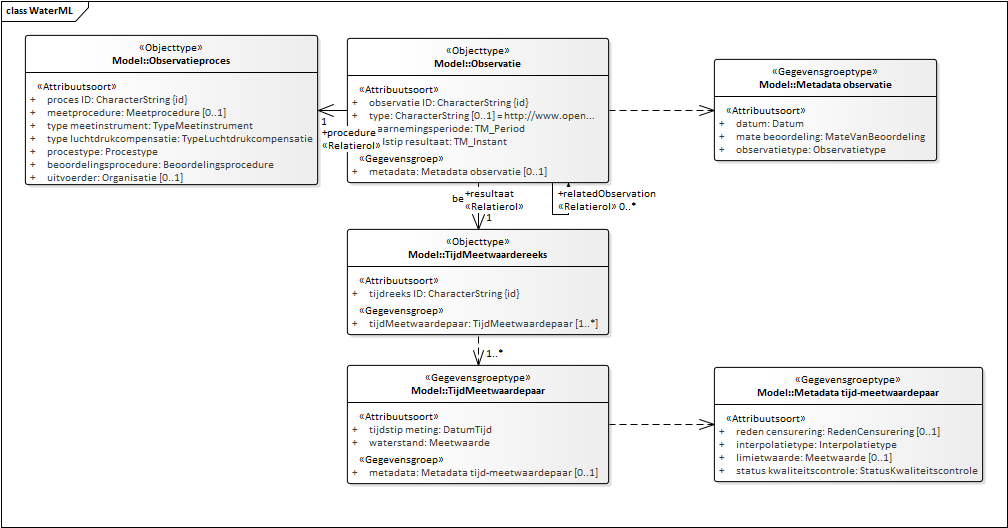
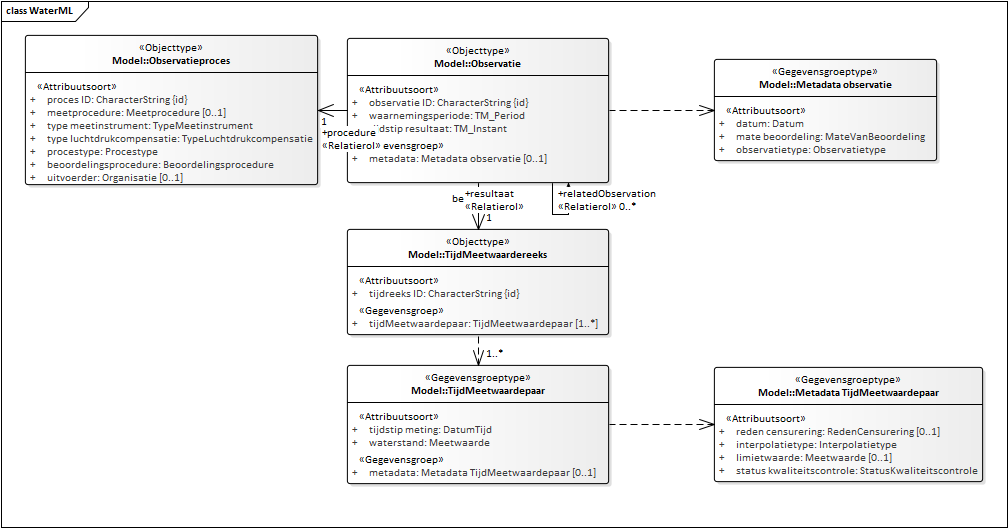
Conceptualmodel-GrondwaterstandonderzoekGLD-0.9-3-20191003-20191014-153124

Changed region(s): [[0.3383, 0.2121, 0.5843, 0.3333], [0.4613, 0.8788, 0.6151, 0.9091], [0.7381, 0.7273, 0.8611, 0.7576]]

diff --git a/data/GLD-cat.msword.html b/data/GLD-cat.msword.html
@@ -13,7 +13,7 @@
    <body>
       <p>Conceptual model/Grondwaterstandonderzoek (GLD)/20191003</p>
       <p>Imvertor: 1.55.2</p>
-      <p>Model release: Conceptualmodel-GrondwaterstandonderzoekGLD-0.9-3-20191003-20191011-171057</p>
+      <p>Model release: Conceptualmodel-GrondwaterstandonderzoekGLD-0.9-3-20191003-20191014-153124</p>
       <hr>
       <section>
          <h1>Artikel 1 Definitie van registratieobject, entiteiten en attributen</h1>
@@ -64,8 +64,8 @@
                            <th>Definitie</th>
                            <td>
                               
-                              <p xmlns="http://www.w3.org/1999/xhtml" xmlns:html="http://www.w3.org/1999/xhtml" xmlns:imvert="http://www.imvertor.org/schema/system">De gegevens die nodig zijn voor de unieke identificatie van een specifieke buis in
-                                 een grondwatermonitoringput. 
+                              <p xmlns="http://www.w3.org/1999/xhtml" xmlns:html="http://www.w3.org/1999/xhtml" xmlns:imvert="http://www.imvertor.org/schema/system">De gegevens die nodig zijn voor de unieke identificatie van een specifieke monitoringbuis
+                                 in een grondwatermonitoringput. 
                               </p>
                               
                            </td>
@@ -74,7 +74,7 @@
                            <th>Toelichting</th>
                            <td>
                               
-                              <p xmlns="http://www.w3.org/1999/xhtml" xmlns:html="http://www.w3.org/1999/xhtml" xmlns:imvert="http://www.imvertor.org/schema/system">Het <em>BRO-ID</em> van de <em>grondwatermonitoringput</em> wordt opgenomen plus het volgnummer van de specifieke buis in de put.
+                              <p xmlns="http://www.w3.org/1999/xhtml" xmlns:html="http://www.w3.org/1999/xhtml" xmlns:imvert="http://www.imvertor.org/schema/system">Het <em>BRO-ID</em> van de <em>grondwatermonitoringput</em> wordt opgenomen plus het volgnummer van de specifieke monitoringbuis in de put.
                               </p>
                               
                            </td>
@@ -214,8 +214,8 @@
                               <br></td>
                         </tr>
                      </tbody>
-                  </table><a class="anchor" name="detail_attribute_Model_Grondwaterstandonderzoek_startdatumOnderzoek"></a><section id="detail_attribute_Model_Grondwaterstandonderzoek_startdatumOnderzoek" level="5">
-                     <h4>  startdatum onderzoek</h4>
+                  </table><a class="anchor" name="detail_attribute_Model_Grondwaterstandonderzoek_datumEersteMeting"></a><section id="detail_attribute_Model_Grondwaterstandonderzoek_datumEersteMeting" level="5">
+                     <h4>  datum eerste meting</h4>
                      
                      <table width="100%">
                         <colgroup width="30%"></colgroup>
@@ -230,55 +230,6 @@
                               <td>
                                  
                                  <p xmlns="http://www.w3.org/1999/xhtml" xmlns:html="http://www.w3.org/1999/xhtml" xmlns:imvert="http://www.imvertor.org/schema/system">De datum waarop de eerste meting van het <em>grondwaterstandonderzoek</em> is uitgevoerd.
-                                 </p>
-                                 
-                              </td>
-                           </tr>
-                           <tr>
-                              <th>Juridische status</th>
-                              <td>Authentiek</td>
-                           </tr>
-                           <tr>
-                              <th>Kardinaliteit</th>
-                              <td>1</td>
-                           </tr>
-                           <tr>
-                              <th>Domein</th>
-                              <td></td>
-                           </tr>
-                           <tr>
-                              <th>&nbsp;&nbsp;Naam</th>
-                              <td>Datum</td>
-                           </tr>
-                           <tr>
-                              <th>Toelichting</th>
-                              <td>
-                                 
-                                 <p xmlns="http://www.w3.org/1999/xhtml" xmlns:html="http://www.w3.org/1999/xhtml" xmlns:imvert="http://www.imvertor.org/schema/system">Het gegeven staan niet in een brondocument, maar worden automatisch door de basisregistratie
-                                    ondergrond afgeleid van het tijdstip van de eerste meting.
-                                 </p>
-                                 
-                              </td>
-                           </tr>
-                        </tbody>
-                     </table>
-                     
-                  </section><a class="anchor" name="detail_attribute_Model_Grondwaterstandonderzoek_einddatumOnderzoek"></a><section id="detail_attribute_Model_Grondwaterstandonderzoek_einddatumOnderzoek" level="5">
-                     <h4>  einddatum onderzoek</h4>
-                     
-                     <table width="100%">
-                        <colgroup width="30%"></colgroup>
-                        <colgroup width="70%"></colgroup>
-                        <tbody>
-                           <tr>
-                              <th>Type gegeven</th>
-                              <td>Attribuut van Grondwaterstandonderzoek</td>
-                           </tr>
-                           <tr>
-                              <th>Definitie</th>
-                              <td>
-                                 
-                                 <p xmlns="http://www.w3.org/1999/xhtml" xmlns:html="http://www.w3.org/1999/xhtml" xmlns:imvert="http://www.imvertor.org/schema/system">De datum waarop de laatste meting van het <em>grondwaterstandonderzoek</em> is uitgevoerd.
                                  </p>
                                  
                               </td>
@@ -304,8 +255,56 @@
                               <td>
                                  
                                  <p xmlns="http://www.w3.org/1999/xhtml" xmlns:html="http://www.w3.org/1999/xhtml" xmlns:imvert="http://www.imvertor.org/schema/system">Het gegeven staan niet in een brondocument, maar worden automatisch door de basisregistratie
-                                    ondergrond afgeleid van het tijdstip van de laatste meting op het moment dat de registratie
-                                    voltooid wordt.
+                                    ondergrond afgeleid van het tijdstip van de eerste meting.
+                                 </p>
+                                 
+                              </td>
+                           </tr>
+                        </tbody>
+                     </table>
+                     
+                  </section><a class="anchor" name="detail_attribute_Model_Grondwaterstandonderzoek_datumLaatsteMeting"></a><section id="detail_attribute_Model_Grondwaterstandonderzoek_datumLaatsteMeting" level="5">
+                     <h4>  datum laatste meting</h4>
+                     
+                     <table width="100%">
+                        <colgroup width="30%"></colgroup>
+                        <colgroup width="70%"></colgroup>
+                        <tbody>
+                           <tr>
+                              <th>Type gegeven</th>
+                              <td>Attribuut van Grondwaterstandonderzoek</td>
+                           </tr>
+                           <tr>
+                              <th>Definitie</th>
+                              <td>
+                                 
+                                 <p xmlns="http://www.w3.org/1999/xhtml" xmlns:html="http://www.w3.org/1999/xhtml" xmlns:imvert="http://www.imvertor.org/schema/system">De datum van de laatste meting die beschikbaar is van het <em>grondwaterstandonderzoek</em>.
+                                 </p>
+                                 
+                              </td>
+                           </tr>
+                           <tr>
+                              <th>Juridische status</th>
+                              <td>Authentiek</td>
+                           </tr>
+                           <tr>
+                              <th>Kardinaliteit</th>
+                              <td>0.. 1</td>
+                           </tr>
+                           <tr>
+                              <th>Domein</th>
+                              <td></td>
+                           </tr>
+                           <tr>
+                              <th>&nbsp;&nbsp;Naam</th>
+                              <td>Datum</td>
+                           </tr>
+                           <tr>
+                              <th>Toelichting</th>
+                              <td>
+                                 
+                                 <p xmlns="http://www.w3.org/1999/xhtml" xmlns:html="http://www.w3.org/1999/xhtml" xmlns:imvert="http://www.imvertor.org/schema/system">Het gegeven staan niet in een brondocument, maar worden automatisch door de basisregistratie
+                                    ondergrond afgeleid van het tijdstip van de laatste meting.
                                  </p>
                                  
                               </td>
@@ -802,7 +801,9 @@
                            <th>Definitie</th>
                            <td>
                               
-                              <p xmlns="http://www.w3.org/1999/xhtml" xmlns:html="http://www.w3.org/1999/xhtml" xmlns:imvert="http://www.imvertor.org/schema/system">De reeks van waterstanden, gemeten in een monitoringbuis van een grondwatermonitoringput.</p>
+                              <p xmlns="http://www.w3.org/1999/xhtml" xmlns:html="http://www.w3.org/1999/xhtml" xmlns:imvert="http://www.imvertor.org/schema/system">De kenmerken van de reeks van waterstanden, gemeten in een monitoringbuis van een
+                                 grondwatermonitoringput.
+                              </p>
                               
                            </td>
                         </tr>
@@ -882,7 +883,7 @@
                            <th>Definitie</th>
                            <td>
                               
-                              <p xmlns="http://www.w3.org/1999/xhtml" xmlns:html="http://www.w3.org/1999/xhtml" xmlns:imvert="http://www.imvertor.org/schema/system">TODO</p>
+                              <p xmlns="http://www.w3.org/1999/xhtml" xmlns:html="http://www.w3.org/1999/xhtml" xmlns:imvert="http://www.imvertor.org/schema/system">De kenmerken van de observatie aan de waterstand in een monitoringbuis van een grondwatermonitoringput.</p>
                               
                            </td>
                         </tr>
@@ -956,59 +957,6 @@
                         </tbody>
                      </table>
                      
-                  </section><a class="anchor" name="detail_attribute_Model_Observatie_type"></a><section id="detail_attribute_Model_Observatie_type" level="5">
-                     <h4>  type</h4>
-                     
-                     <table width="100%">
-                        <colgroup width="30%"></colgroup>
-                        <colgroup width="70%"></colgroup>
-                        <tbody>
-                           <tr>
-                              <th>Type gegeven</th>
-                              <td>Attribuut van Observatie</td>
-                           </tr>
-                           <tr>
-                              <th>Definitie</th>
-                              <td>
-                                 
-                                 <p xmlns="http://www.w3.org/1999/xhtml" xmlns:html="http://www.w3.org/1999/xhtml" xmlns:imvert="http://www.imvertor.org/schema/system">TODO</p>
-                                 
-                              </td>
-                           </tr>
-                           <tr>
-                              <th>Juridische status</th>
-                              <td>Authentiek</td>
-                           </tr>
-                           <tr>
-                              <th>Kardinaliteit</th>
-                              <td>0.. 1</td>
-                           </tr>
-                           <tr>
-                              <th>Domein</th>
-                              <td></td>
-                           </tr>
-                           <tr>
-                              <th>&nbsp;&nbsp;Naam</th>
-                              <td>CHARACTERSTRING</td>
-                           </tr>
-                           <tr>
-                              <th>&nbsp;&nbsp;Type</th>
-                              <td>Waardelijst uitbreidbaar</td>
-                           </tr>
-                           <tr>
-                              <th>Toelichting</th>
-                              <td>
-                                 
-                                 <p xmlns="http://www.w3.org/1999/xhtml" xmlns:html="http://www.w3.org/1999/xhtml" xmlns:imvert="http://www.imvertor.org/schema/system">Eigenlijk is het type gml:Reference, maar dat zit niet in het BRO-GML-profiel. Oplossing
-                                    ontstaat vanzelf als we een BRO-profiel opstellen voor WaterML, want dan is dit attribuut
-                                    niet meer expliciet gemodelleerd.
-                                 </p>
-                                 
-                              </td>
-                           </tr>
-                        </tbody>
-                     </table>
-                     
                   </section><a class="anchor" name="detail_attribute_Model_Observatie_waarnemingsperiode"></a><section id="detail_attribute_Model_Observatie_waarnemingsperiode" level="5">
                      <h4>  waarnemingsperiode</h4>
                      
@@ -1024,8 +972,8 @@
                               <th>Definitie</th>
                               <td>
                                  
-                                 <p xmlns="http://www.w3.org/1999/xhtml" xmlns:html="http://www.w3.org/1999/xhtml" xmlns:imvert="http://www.imvertor.org/schema/system">De periode tussen de eerste en de laatste meting. Deze wordt gevormd door de datum
-                                    van de eerste meting en de datum van de laatste meting van de reeks.
+                                 <p xmlns="http://www.w3.org/1999/xhtml" xmlns:html="http://www.w3.org/1999/xhtml" xmlns:imvert="http://www.imvertor.org/schema/system">De periode tussen de eerste en de laatste meting. Deze periode wordt gevormd door
+                                    de datum van de eerste meting en de datum van de laatste meting van de reeks.
                                  </p>
                                  
                               </td>
@@ -1120,7 +1068,7 @@
                      
                   </section>
                </section><a class="anchor" name="graph_EAID_734CD3EC_5E0A_4b12_89F5_AF8104ECF41F"></a><a class="anchor" name="global_class_Model_MetadataTijdMeetwaardepaar"></a><section id="global_class_Model_MetadataTijdMeetwaardepaar" level="4">
-                  <h3>   Metadata tijd-meetwaardepaar</h3>
+                  <h3>   Metadata TijdMeetwaardepaar</h3>
                   <table width="100%">
                      <colgroup width="30%"></colgroup>
                      <colgroup width="70%"></colgroup>
@@ -1133,7 +1081,7 @@
                            <th>Definitie</th>
                            <td>
                               
-                              <p xmlns="http://www.w3.org/1999/xhtml" xmlns:html="http://www.w3.org/1999/xhtml" xmlns:imvert="http://www.imvertor.org/schema/system">TODO</p>
+                              <p xmlns="http://www.w3.org/1999/xhtml" xmlns:html="http://www.w3.org/1999/xhtml" xmlns:imvert="http://www.imvertor.org/schema/system">De metadata die behoort bij het tijd-meetwaardepaar</p>
                               
                            </td>
                         </tr>
@@ -1142,7 +1090,7 @@
                            <td>
                               <a class="link" href="#global_class_Model_TijdMeetwaardepaar">TijdMeetwaardepaar</a>
                               
-                              metadata 0.. 1 Metadata tijd-meetwaardepaar<br></td>
+                              metadata 0.. 1 Metadata TijdMeetwaardepaar<br></td>
                         </tr>
                      </tbody>
                   </table><a class="anchor" name="detail_attribute_Model_MetadataTijdMeetwaardepaar_redenCensurering"></a><section id="detail_attribute_Model_MetadataTijdMeetwaardepaar_redenCensurering" level="5">
@@ -1154,7 +1102,7 @@
                         <tbody>
                            <tr>
                               <th>Type gegeven</th>
-                              <td>Attribuut van Metadata tijd-meetwaardepaar</td>
+                              <td>Attribuut van Metadata TijdMeetwaardepaar</td>
                            </tr>
                            <tr>
                               <th>Definitie</th>
@@ -1198,7 +1146,7 @@
                         <tbody>
                            <tr>
                               <th>Type gegeven</th>
-                              <td>Attribuut van Metadata tijd-meetwaardepaar</td>
+                              <td>Attribuut van Metadata TijdMeetwaardepaar</td>
                            </tr>
                            <tr>
                               <th>Definitie</th>
@@ -1240,7 +1188,7 @@
                         <tbody>
                            <tr>
                               <th>Type gegeven</th>
-                              <td>Attribuut van Metadata tijd-meetwaardepaar</td>
+                              <td>Attribuut van Metadata TijdMeetwaardepaar</td>
                            </tr>
                            <tr>
                               <th>Definitie</th>
@@ -1286,7 +1234,7 @@
                         <tbody>
                            <tr>
                               <th>Type gegeven</th>
-                              <td>Attribuut van Metadata tijd-meetwaardepaar</td>
+                              <td>Attribuut van Metadata TijdMeetwaardepaar</td>
                            </tr>
                            <tr>
                               <th>Definitie</th>
@@ -1334,7 +1282,9 @@
                            <th>Definitie</th>
                            <td>
                               
-                              <p xmlns="http://www.w3.org/1999/xhtml" xmlns:html="http://www.w3.org/1999/xhtml" xmlns:imvert="http://www.imvertor.org/schema/system">TODO</p>
+                              <p xmlns="http://www.w3.org/1999/xhtml" xmlns:html="http://www.w3.org/1999/xhtml" xmlns:imvert="http://www.imvertor.org/schema/system">De metadata die behoort bij de observatie van de waterstand in een monitoringbuis
+                                 van een grondwatermonitoringput.
+                              </p>
                               
                            </td>
                         </tr>
@@ -2135,6 +2085,14 @@
                            <th>Definitie</th>
                            <td>
                               
+                              <p xmlns="http://www.w3.org/1999/xhtml" xmlns:html="http://www.w3.org/1999/xhtml" xmlns:imvert="http://www.imvertor.org/schema/system">De kenmerken van een tijd-meetwaardepaar. </p>
+                              
+                           </td>
+                        </tr>
+                        <tr>
+                           <th>Toelichting</th>
+                           <td>
+                              
                               <p xmlns="http://www.w3.org/1999/xhtml" xmlns:html="http://www.w3.org/1999/xhtml" xmlns:imvert="http://www.imvertor.org/schema/system">De combinatie van tijdstip meting en waterstand, zoals gemeten in een monitoringbuis
                                  van een grondwatermonitoringput. Iedere waterstand representeert de grondwaterstand
                                  en/of stijghoogte in de ondergrond ter plekke van het filter van deze monitoringbuis.
@@ -2146,7 +2104,7 @@
                            <th>Relaties met andere entiteiten</th>
                            <td>TijdMeetwaardepaar 
                               metadata 0.. 1 
-                              <a class="link" href="#global_class_Model_MetadataTijdMeetwaardepaar">Metadata tijd-meetwaardepaar</a>
+                              <a class="link" href="#global_class_Model_MetadataTijdMeetwaardepaar">Metadata TijdMeetwaardepaar</a>
                               <br>
                               <a class="link" href="#global_class_Model_TijdMeetwaardereeks">TijdMeetwaardereeks</a>
                               
